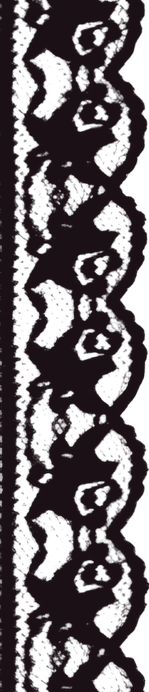
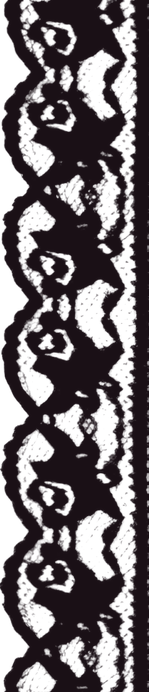
Encaje lateral a la derecha, pegado al borde, en la página y en el carrito
Claude-Session: https://claude.ai/code/session_01NkzZ8cftStZ1SuQ3xXPiur

diff --git a/css/style.css b/css/style.css
@@ -63,9 +63,9 @@ img { display: block; max-width: 100%; }
 @keyframes float { from { transform: translateY(0); } to { transform: translateY(-14px); } }
 
 /* ---------- encaje pegado a la izquierda (página y carrito) ---------- */
-.lace { background: url("../assets/img/encaje-lateral.png") left top / 100% auto repeat-y; pointer-events: none; }
-.lace-page { position: fixed; top: 0; bottom: 0; left: 0; width: 34px; z-index: 1; animation: appear 2.6s var(--ease) .8s backwards; }
-.cart-lace { position: absolute; top: 24px; bottom: 24px; left: 14px; width: 26px; opacity: .95; }
+.lace { background: url("../assets/img/encaje-lateral.png") right top / 100% auto repeat-y; pointer-events: none; }
+.lace-page { position: fixed; top: 0; bottom: 0; right: 0; width: 34px; z-index: 1; animation: appear 2.6s var(--ease) .8s backwards; }
+.cart-lace { position: absolute; top: 0; bottom: 0; right: 0; width: 30px; }
 
 /* ---------- adorno de la esquina izquierda ---------- */
 .corner-orn { position: absolute; top: 6px; left: 6px; z-index: 1; width: min(40vw, 520px, calc(50vw - 125px)); pointer-events: none; animation: appear 2.6s var(--ease) .6s backwards; }
@@ -273,11 +273,11 @@ body.is-stuck #corner-logo:hover { transform: scale(1.06) rotate(-2deg); }
 #cart.open { visibility: visible; pointer-events: auto; }
 .cart-backdrop { position: absolute; inset: 0; background: rgba(246,226,238,.6); backdrop-filter: blur(6px); -webkit-backdrop-filter: blur(6px); opacity: 0; transition: opacity .5s var(--ease); }
 #cart.open .cart-backdrop { opacity: 1; }
-.cart-panel { position: absolute; top: 10px; right: 10px; bottom: 10px; width: min(350px, calc(100% - 20px)); display: flex; flex-direction: column; padding: 18px 16px 16px 52px;
+.cart-panel { position: absolute; top: 10px; right: 10px; bottom: 10px; width: min(350px, calc(100% - 20px)); display: flex; flex-direction: column; padding: 18px 44px 16px 18px; overflow: hidden;
   background: linear-gradient(170deg, rgba(255,255,255,.95), rgba(253,238,246,.92)); border: 1px solid #fff; border-radius: 26px;
   box-shadow: 0 0 0 5px rgba(255,255,255,.45), 0 24px 60px -18px rgba(150,60,110,.55); transform: translateX(110%); transition: transform .7s var(--ease); }
 #cart.open .cart-panel { transform: none; }
-.cart-x { position: absolute; top: 12px; right: 12px; width: 30px; height: 30px; border-radius: 50%; background: rgba(255,255,255,.8); display: grid; place-items: center; }
+.cart-x { position: absolute; top: 12px; right: 40px; z-index: 2; width: 30px; height: 30px; border-radius: 50%; background: rgba(255,255,255,.8); display: grid; place-items: center; }
 .cart-x svg { width: 13px; }
 .cart-panel h2 { font-family: var(--font-script); font-weight: 700; font-size: 32px; line-height: 1.1; margin: 0 0 8px; }
 #cart-list { flex: 1; overflow: auto; display: flex; flex-direction: column; gap: 10px; padding: 2px 2px 6px; }
